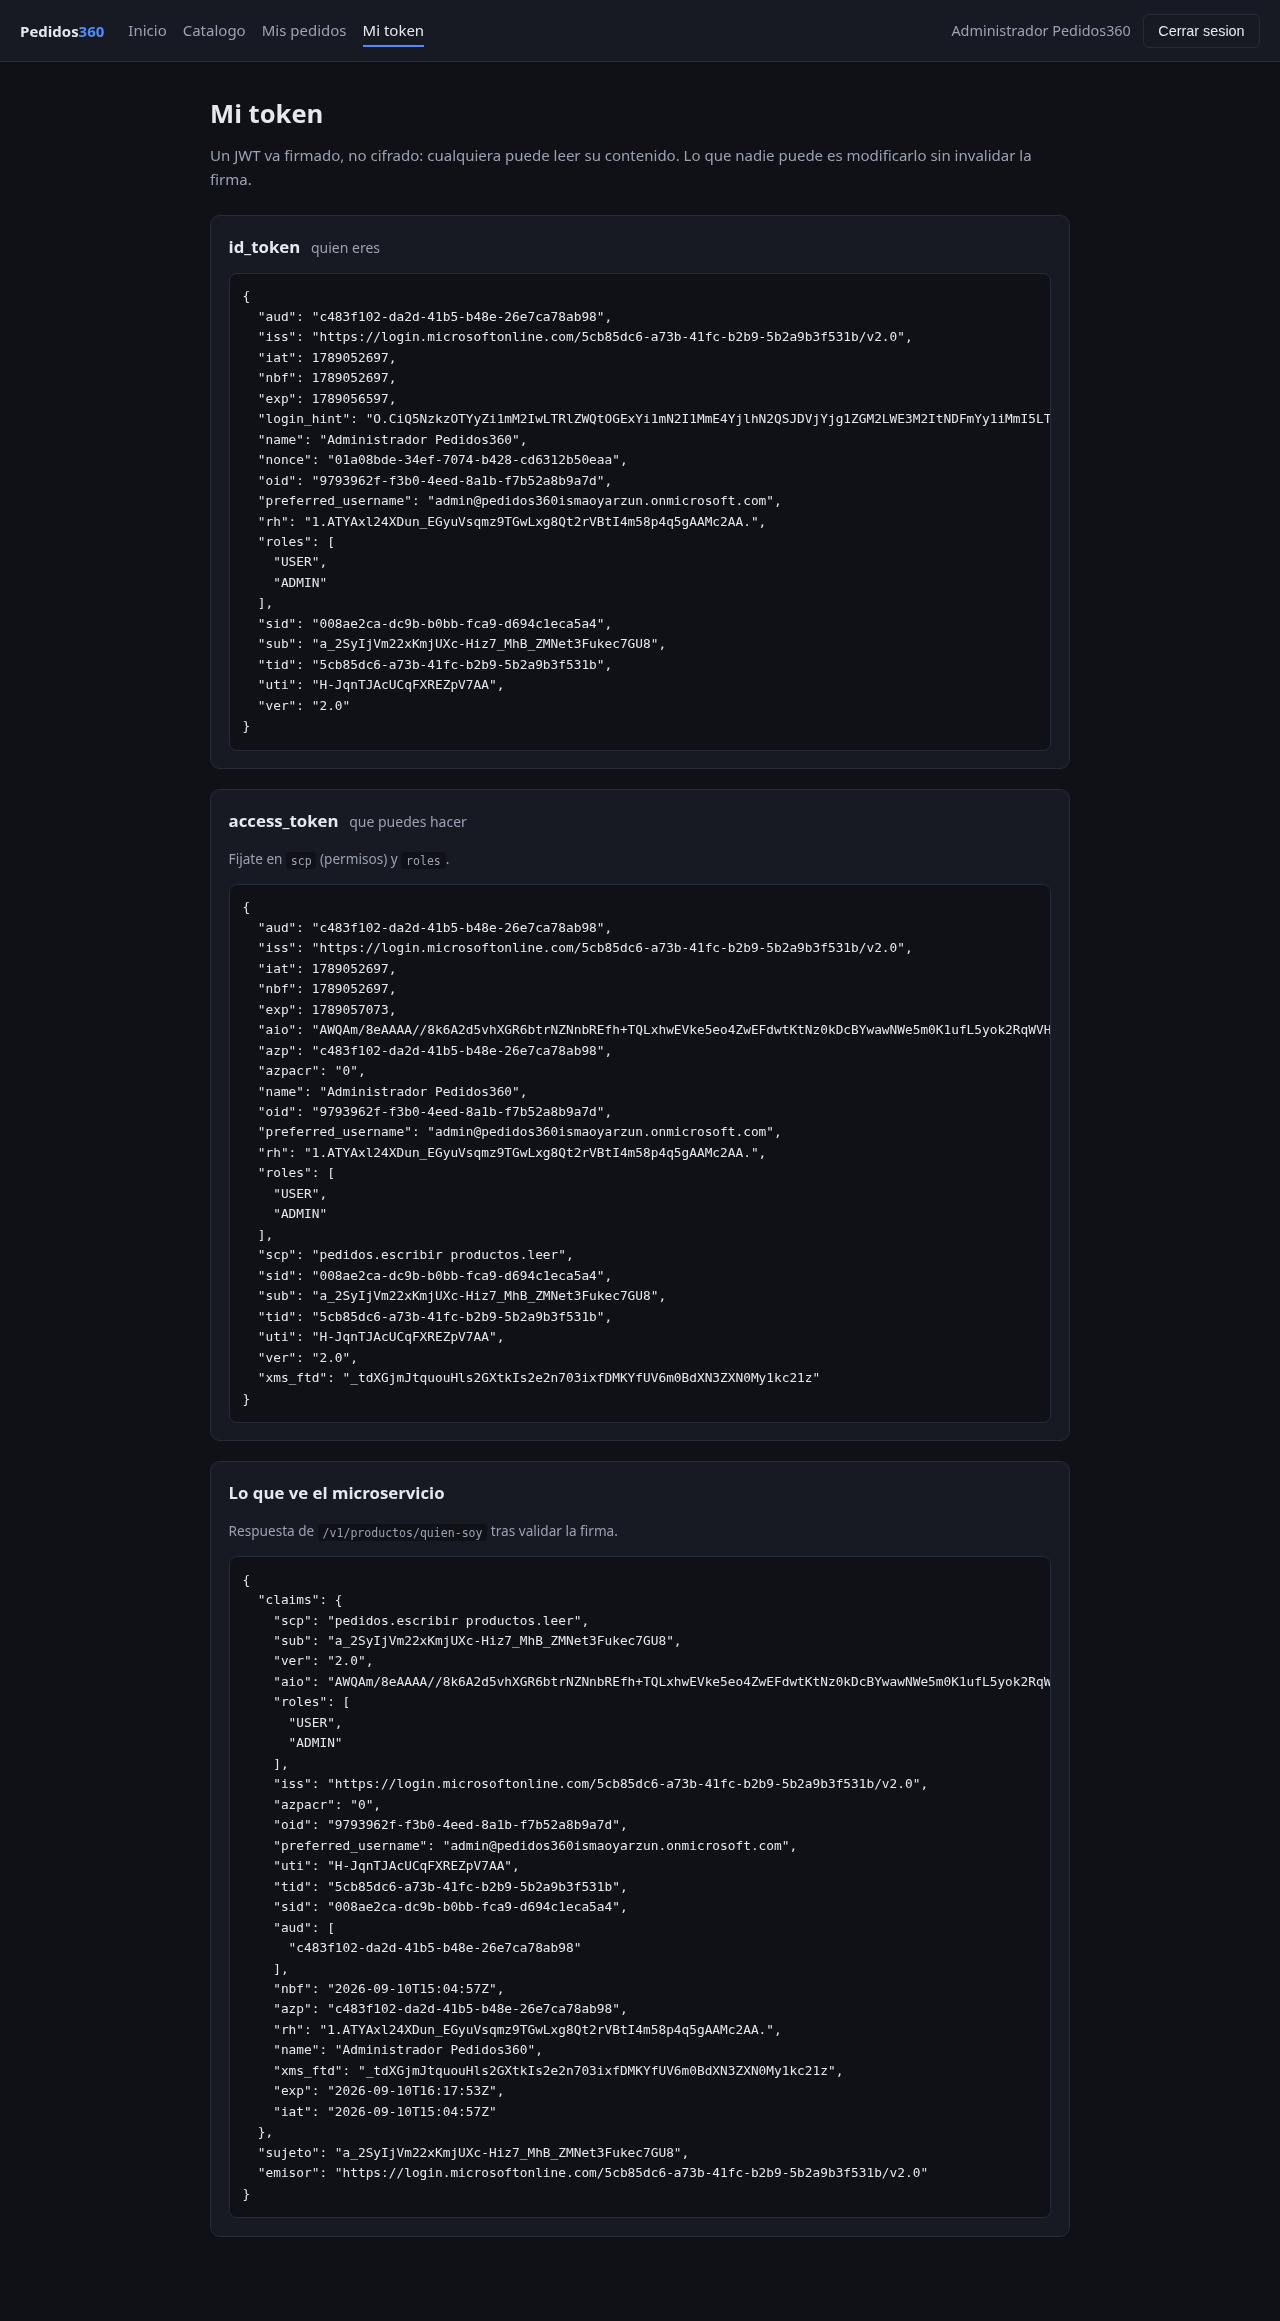
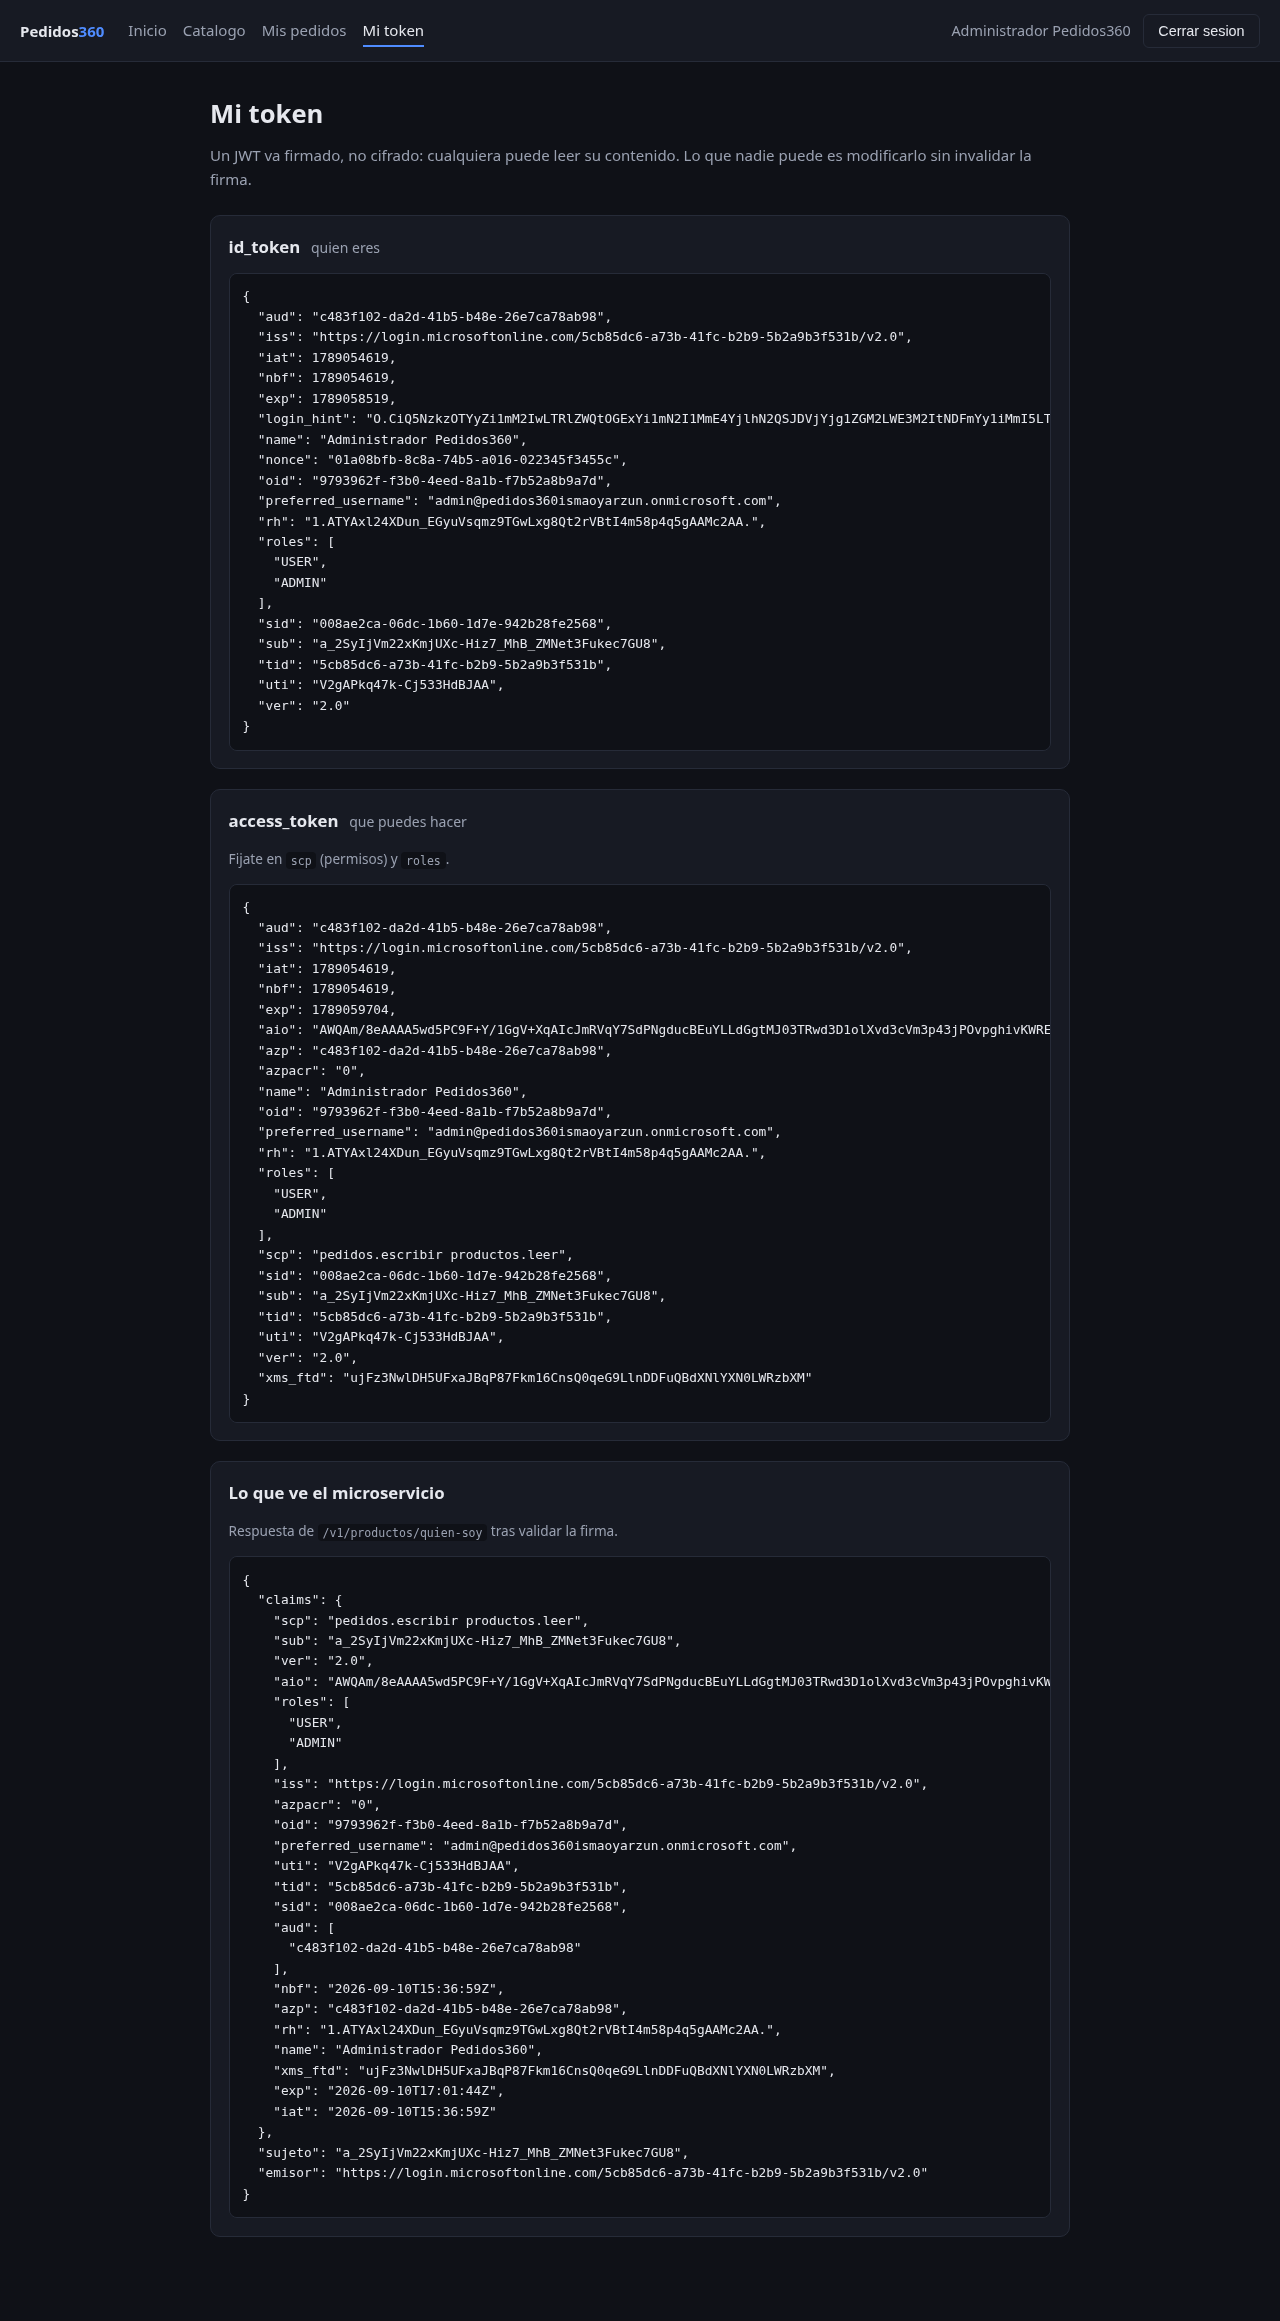
V10.8.0: converter json propio en ms-productos para el listener de stock

Changed region(s): [[0.2812, 0.4033, 0.3125, 0.4343]]

diff --git a/ms-productos/src/main/java/cl/duoc/cloud/productos/config/RabbitMessagingConfig.java b/ms-productos/src/main/java/cl/duoc/cloud/productos/config/RabbitMessagingConfig.java
@@ -1,0 +1,31 @@
+package cl.duoc.cloud.productos.config;
+
+import org.springframework.amqp.support.converter.JacksonJavaTypeMapper;
+import org.springframework.amqp.support.converter.JacksonJsonMessageConverter;
+import org.springframework.amqp.support.converter.MessageConverter;
+import org.springframework.context.annotation.Bean;
+import org.springframework.context.annotation.Configuration;
+
+/**
+ * Converter JSON para el listener de mensajeria.
+ *
+ * Sin esto, Spring Boot usa un converter que no sabe mapear JSON a un POJO
+ * propio y la conversion del mensaje falla antes de llegar a StockListener.
+ *
+ * TypePrecedence.INFERRED: el tipo del payload se toma del parametro del
+ * metodo @RabbitListener, no de la cabecera __TypeId__ que pone el emisor. Es
+ * obligatorio aqui porque el productor (ms-ordenes) y este consumidor tienen
+ * cada uno su propia clase OrdenCreadaEvento, en paquetes distintos: con la
+ * precedencia por defecto (TYPE_ID) este servicio intentaria cargar la clase
+ * del paquete de ms-ordenes, que no existe en su classpath.
+ */
+@Configuration
+public class RabbitMessagingConfig {
+
+    @Bean
+    MessageConverter convertidorJson() {
+        JacksonJsonMessageConverter convertidor = new JacksonJsonMessageConverter();
+        convertidor.setTypePrecedence(JacksonJavaTypeMapper.TypePrecedence.INFERRED);
+        return convertidor;
+    }
+}

diff --git a/ms-ordenes/src/main/java/cl/duoc/cloud/ordenes/config/RabbitConfig.java b/ms-ordenes/src/main/java/cl/duoc/cloud/ordenes/config/RabbitConfig.java
@@ -188,6 +188,16 @@ public class RabbitConfig {
         return new JacksonJsonMessageConverter();
     }
 
+    /**
+     * Spring Boot no auto-configura un RabbitAdmin en esta version: hay que
+     * declararlo a mano para que InicializadorRabbit pueda forzar la
+     * declaracion de la topologia al arrancar.
+     */
+    @Bean
+    org.springframework.amqp.rabbit.core.RabbitAdmin rabbitAdmin(ConnectionFactory fabrica) {
+        return new org.springframework.amqp.rabbit.core.RabbitAdmin(fabrica);
+    }
+
     @Bean
     RabbitTemplate rabbitTemplate(ConnectionFactory fabrica, MessageConverter convertidor) {
         RabbitTemplate plantilla = new RabbitTemplate(fabrica);

diff --git a/CHANGELOG.md b/CHANGELOG.md
@@ -2,6 +2,25 @@
 
 El versionado sigue [SemVer](https://semver.org/lang/es/): MAYOR.MENOR.PARCHE.
 
+## [10.8.0]
+
+- `ms-productos` suma su propio converter JSON para el listener
+  (`RabbitMessagingConfig`). Sin el, Spring Boot usaba el converter por
+  defecto, que no sabe mapear JSON a un POJO propio: la conversion fallaba
+  antes de llegar a `StockListener` y el mensaje terminaba en la DLQ sin que
+  el codigo del consumidor llegara a ejecutarse.
+- `TypePrecedence.INFERRED` en ese converter: el tipo del payload se toma del
+  parametro del metodo `@RabbitListener`, no de la cabecera `__TypeId__` que
+  pone el emisor. Es obligatorio porque `ms-ordenes` y `ms-productos` tienen
+  cada uno su propia clase `OrdenCreadaEvento`, en paquetes distintos
+  (`cl.duoc.cloud.ordenes.*` / `cl.duoc.cloud.productos.*`); con la
+  precedencia por defecto el consumidor intentaba cargar la clase del paquete
+  del productor, que no existe en su classpath, y fallaba.
+- Verificado de punta a punta contra un cluster RabbitMQ real (no mockeado):
+  una orden valida descuenta el stock exacto y queda en el log; una orden con
+  stock insuficiente no toca la tabla, se rechaza con `basicNack(requeue=false)`
+  y el mensaje aparece en `productos.stock.dlq`.
+
 ## [10.7.0]
 
 - `InicializadorRabbit` en `ms-ordenes` fuerza la declaracion de la topologia
